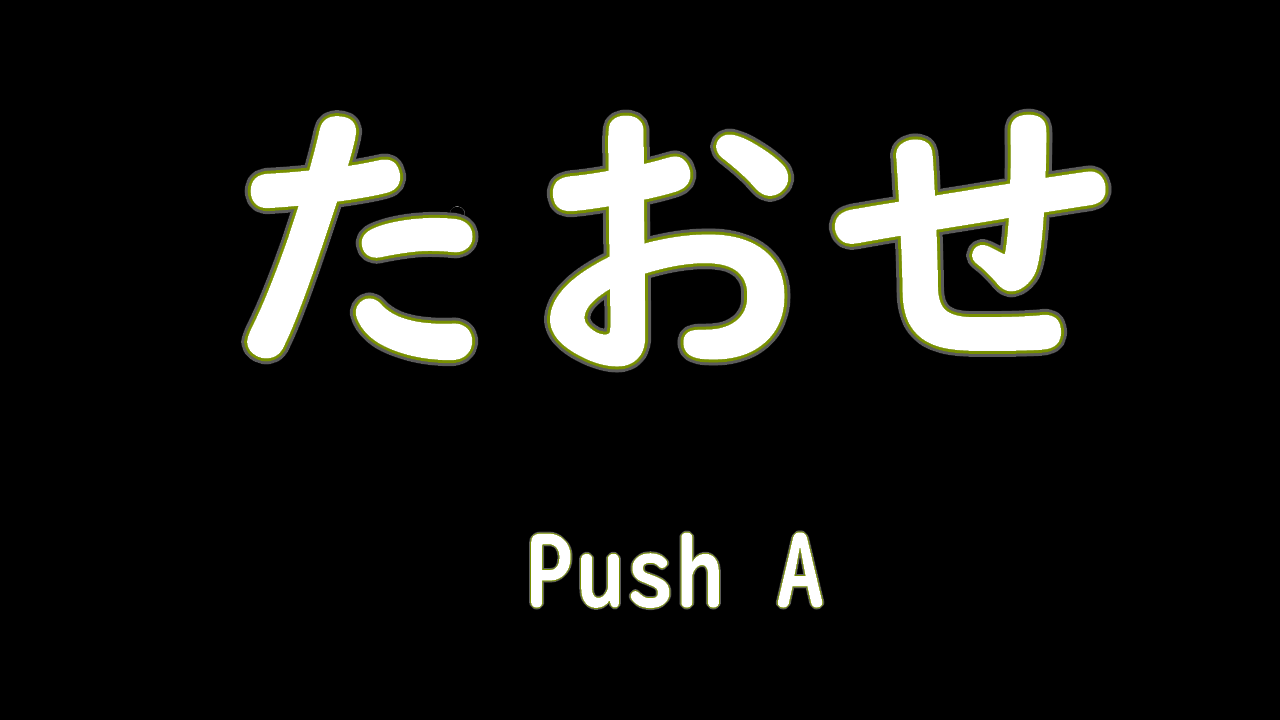
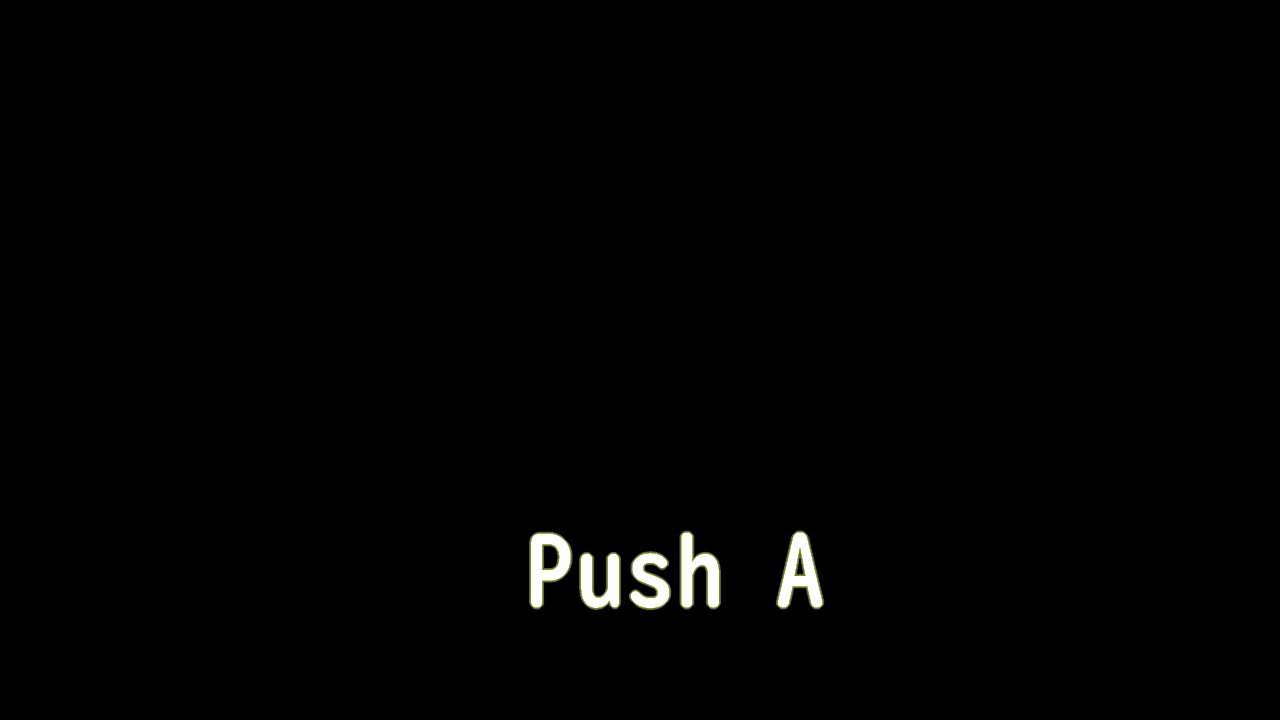
途中

Changed region(s): [[0.4062, 0.1528, 0.625, 0.5194], [0.625, 0.1528, 0.875, 0.5194], [0.1875, 0.1528, 0.375, 0.5194]]

diff --git a/scene/GameScene.cpp b/scene/GameScene.cpp
@@ -103,6 +103,39 @@ void GameScene::Update() {
 
 	scene_->Update();
 
+	if (scene_->GetScene() == scene_->TITLE) {
+		if (Input::GetInstance()->GetJoystickState(0, joyState)) {
+			if (Input::GetInstance()->GetJoystickStatePrevious(0, prevjoyState)) {
+				if (joyState.Gamepad.wButtons & XINPUT_GAMEPAD_A &&
+				    !(prevjoyState.Gamepad.wButtons & XINPUT_GAMEPAD_A)) {
+					isFade = true;
+				}
+			}
+		}
+		if (isFade == true) {
+			fadeColor_.w -= 0.005f;
+			TitleSprite_->SetColor(fadeColor_);
+		}
+		if (fadeColor_.w <= 0) {
+			scene_->SetScene(scene_->OPERATION);
+			fadeColor_.w = 1.0f;
+			ClearSprite_->SetColor(fadeColor_);
+			isFade = false;
+		}
+	}
+
+	if (scene_->GetScene() == scene_->OPERATION) {
+		if (Input::GetInstance()->GetJoystickState(0, joyState)) {
+			if (Input::GetInstance()->GetJoystickStatePrevious(0, prevjoyState)) {
+				if (joyState.Gamepad.wButtons & XINPUT_GAMEPAD_A &&
+				    !(prevjoyState.Gamepad.wButtons & XINPUT_GAMEPAD_A)) {
+					isFade = true;
+					scene_->SetScene(scene_->GAME);
+				}
+			}
+		}
+	}
+
 	//switch (scene) {
 	//case GameScene::TITLE: // タイトルシーン
 	//	if (Input::GetInstance()->GetJoystickState(0, joyState)) {
@@ -128,6 +161,15 @@ void GameScene::Update() {
 
 	if (scene_->GetScene() == scene_->GAME) {
 
+		if (isFade == true) {
+			fadeColor_.w -= 0.005f;
+			OperationSprite_->SetColor(fadeColor_);
+		}
+		if (fadeColor_.w <= 0) {
+			fadeColor_.w = 1.0f;
+			isFade = false;
+		}
+
 		// 自キャラの更新
 		player_->Update();
 
@@ -144,30 +186,30 @@ void GameScene::Update() {
 		debugCamera_->Update();
 
 #ifdef _DEBUG
-		if (input_->TriggerKey(DIK_RETURN)) {
-			isDebugCameraActive_ = true;
-		}
+			if (input_->TriggerKey(DIK_RETURN)) {
+				isDebugCameraActive_ = true;
+			}
 #endif
 
-		// カメラの処理
-		if (isDebugCameraActive_) {
-			debugCamera_->Update();
-			viewProjection_.matView = debugCamera_->GetViewProjection().matView;
-			viewProjection_.matProjection = debugCamera_->GetViewProjection().matProjection;
-			// ビュープロジェクション行列の転送
-			viewProjection_.TransferMatrix();
-		} else {
-			// 追従カメラの更新
-			followCamera_->Update();
-			viewProjection_.matProjection = followCamera_->GetViewProjection().matProjection;
-			viewProjection_.matView = followCamera_->GetViewProjection().matView;
-			viewProjection_.TransferMatrix();
-		}
+			// カメラの処理
+			if (isDebugCameraActive_) {
+				debugCamera_->Update();
+				viewProjection_.matView = debugCamera_->GetViewProjection().matView;
+				viewProjection_.matProjection = debugCamera_->GetViewProjection().matProjection;
+				// ビュープロジェクション行列の転送
+				viewProjection_.TransferMatrix();
+			} else {
+				// 追従カメラの更新
+				followCamera_->Update();
+				viewProjection_.matProjection = followCamera_->GetViewProjection().matProjection;
+				viewProjection_.matView = followCamera_->GetViewProjection().matView;
+				viewProjection_.TransferMatrix();
+			}
 
-		if (enemy_->GetIsDead() == true) {
-			scene_->SetScene(scene_->CLEAR);
-		}
-		CheckCollision();
+			if (enemy_->GetIsDead() == true) {
+				scene_->SetScene(scene_->CLEAR);
+			}
+			CheckCollision();
 	}
 
 		//if (enemy_->GetIsDead() == true) {
@@ -185,9 +227,31 @@ void GameScene::Update() {
 	//case GameScene::CLEAR:*/
 
 	if (scene_->GetScene() == scene_->CLEAR) {
-		player_->Reset();
-		enemy_->Reset();
-		deathTimer_ = 60;
+		    player_->Reset();
+		    enemy_->Reset();
+		    deathTimer_ = 60;
+
+		   if (Input::GetInstance()->GetJoystickState(0, joyState)) {
+			   if (Input::GetInstance()->GetJoystickStatePrevious(0, prevjoyState)) {
+				   if (joyState.Gamepad.wButtons & XINPUT_GAMEPAD_A &&
+				    !(prevjoyState.Gamepad.wButtons & XINPUT_GAMEPAD_A)) {
+					isFade = true;
+				   }
+			   }
+		   }
+
+		    if (isFade == true) {
+			    fadeColor_.w -= 0.005f;
+			    ClearSprite_->SetColor(fadeColor_);
+			    Vector4 color = {1.0f, 1.0f, 1.0f, 1.0f};
+			    TitleSprite_->SetColor(color);
+		    }
+		    if (fadeColor_.w <= 0) {
+			    fadeColor_.w = 1.0f;
+			    scene_->SetScene(scene_->TITLE);
+			    OperationSprite_->SetColor(fadeColor_);
+			    isFade = false;
+		    }
 	}
 
 		/*if (Input::GetInstance()->GetJoystickState(0, joyState)) {
@@ -214,22 +278,6 @@ void GameScene::Draw() {
 	/// <summary>
 	/// ここに背景スプライトの描画処理を追加できる
 	/// </summary>
-	
-	//if (scene == TITLE) {
-	if (scene_->GetScene() == scene_->TITLE) {
-		TitleSprite_->Draw();
-	}
-	//}
-	//if (scene == OPERATION) {
-	if (scene_->GetScene() == scene_->OPERATION) {
-		OperationSprite_->Draw();
-	}
-	//}
-	//if (scene == CLEAR) {
-	if (scene_->GetScene() == scene_->CLEAR) {
-		ClearSprite_->Draw();
-	}
-	//}
 
 	// スプライト描画後処理
 	Sprite::PostDraw();
@@ -244,7 +292,7 @@ void GameScene::Draw() {
 	/// <summary>
 	/// ここに3Dオブジェクトの描画処理を追加できる
 	/// </summary>
-	
+
 	//if (scene == GAME) {
 	if (scene_->GetScene() == scene_->GAME) {
 		// 自キャラの描画
@@ -272,6 +320,14 @@ void GameScene::Draw() {
 	/// <summary>
 	/// ここに前景スプライトの描画処理を追加できる
 	/// </summary>
+	
+	OperationSprite_->Draw();
+	TitleSprite_->Draw();
+	
+	if (scene_->GetScene()==scene_->CLEAR) {
+	ClearSprite_->Draw();
+	
+	}
 
 	// スプライト描画後処理
 	Sprite::PostDraw();

diff --git a/Scene.cpp b/Scene.cpp
@@ -9,24 +9,8 @@ void Scene::Initialize() {
 void Scene::Update() {
 	switch (scene) {
 	case Scene::TITLE:
-		if (Input::GetInstance()->GetJoystickState(0, joyState)) {
-			if (Input::GetInstance()->GetJoystickStatePrevious(0, prevjoyState)) {
-				if (joyState.Gamepad.wButtons & XINPUT_GAMEPAD_A &&
-				    !(prevjoyState.Gamepad.wButtons & XINPUT_GAMEPAD_A)) {
-					scene = OPERATION;
-				}
-			}
-		}
 		break;
 	case Scene::OPERATION:
-		if (Input::GetInstance()->GetJoystickState(0, joyState)) {
-			if (Input::GetInstance()->GetJoystickStatePrevious(0, prevjoyState)) {
-				if (joyState.Gamepad.wButtons & XINPUT_GAMEPAD_A &&
-				    !(prevjoyState.Gamepad.wButtons & XINPUT_GAMEPAD_A)) {
-					scene = GAME;
-				}
-			}
-		}
 		break;
 	case Scene::GAME:
 		//if (enemy_->GetIsDead() == true) {
@@ -34,14 +18,14 @@ void Scene::Update() {
 		//}
 		break;
 	case Scene::CLEAR:
-		if (Input::GetInstance()->GetJoystickState(0, joyState)) {
+		/*if (Input::GetInstance()->GetJoystickState(0, joyState)) {
 			if (Input::GetInstance()->GetJoystickStatePrevious(0, prevjoyState)) {
 				if (joyState.Gamepad.wButtons & XINPUT_GAMEPAD_A &&
 				    !(prevjoyState.Gamepad.wButtons & XINPUT_GAMEPAD_A)) {
 					scene = TITLE;
 				}
 			}
-		}
+		}*/
 		break;
 	}
 }

diff --git a/scene/GameScene.h b/scene/GameScene.h
@@ -127,6 +127,9 @@ private: // メンバ変数
 
 	int deathTimer_ = 60;
 
+	Vector4 fadeColor_ = {1.0f, 1.0f, 1.0f, 1.0f};
+	bool isFade = false;
+
 	/// <summary>
 	/// ゲームシーン用
 	/// </summary>
